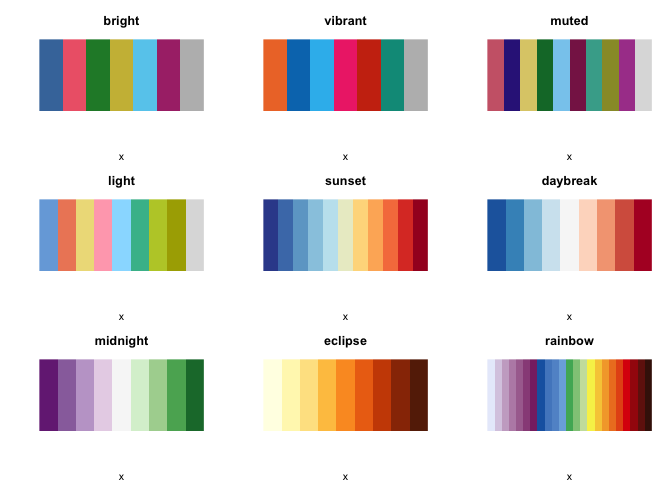
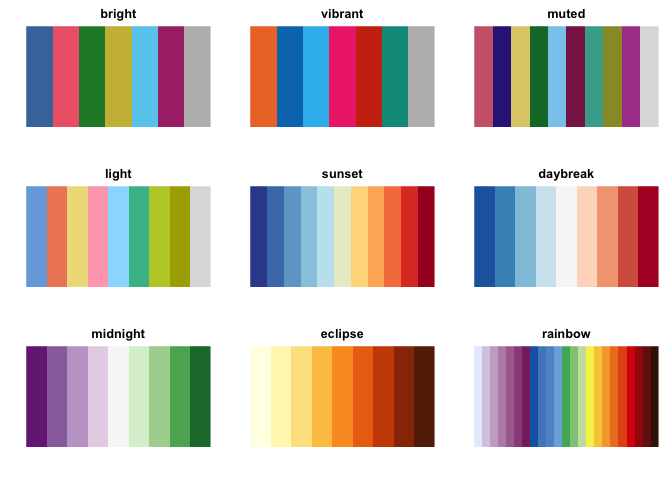
Cover visible axis text in disco_palette_show

diff --git a/README.md b/README.md
@@ -119,8 +119,7 @@ library(ggplot2)
 library(dplyr)
 library(gapminder)
 
-ggplot(filter(gapminder, year == 2007), 
-       aes(gdpPercap, lifeExp, size = pop, color = continent)) +
+ggplot(filter(gapminder, year == 2007), aes(gdpPercap, lifeExp, size = pop, color = continent)) +
   geom_point() +
   scale_color_disco(palette = "vibrant")
 ```
